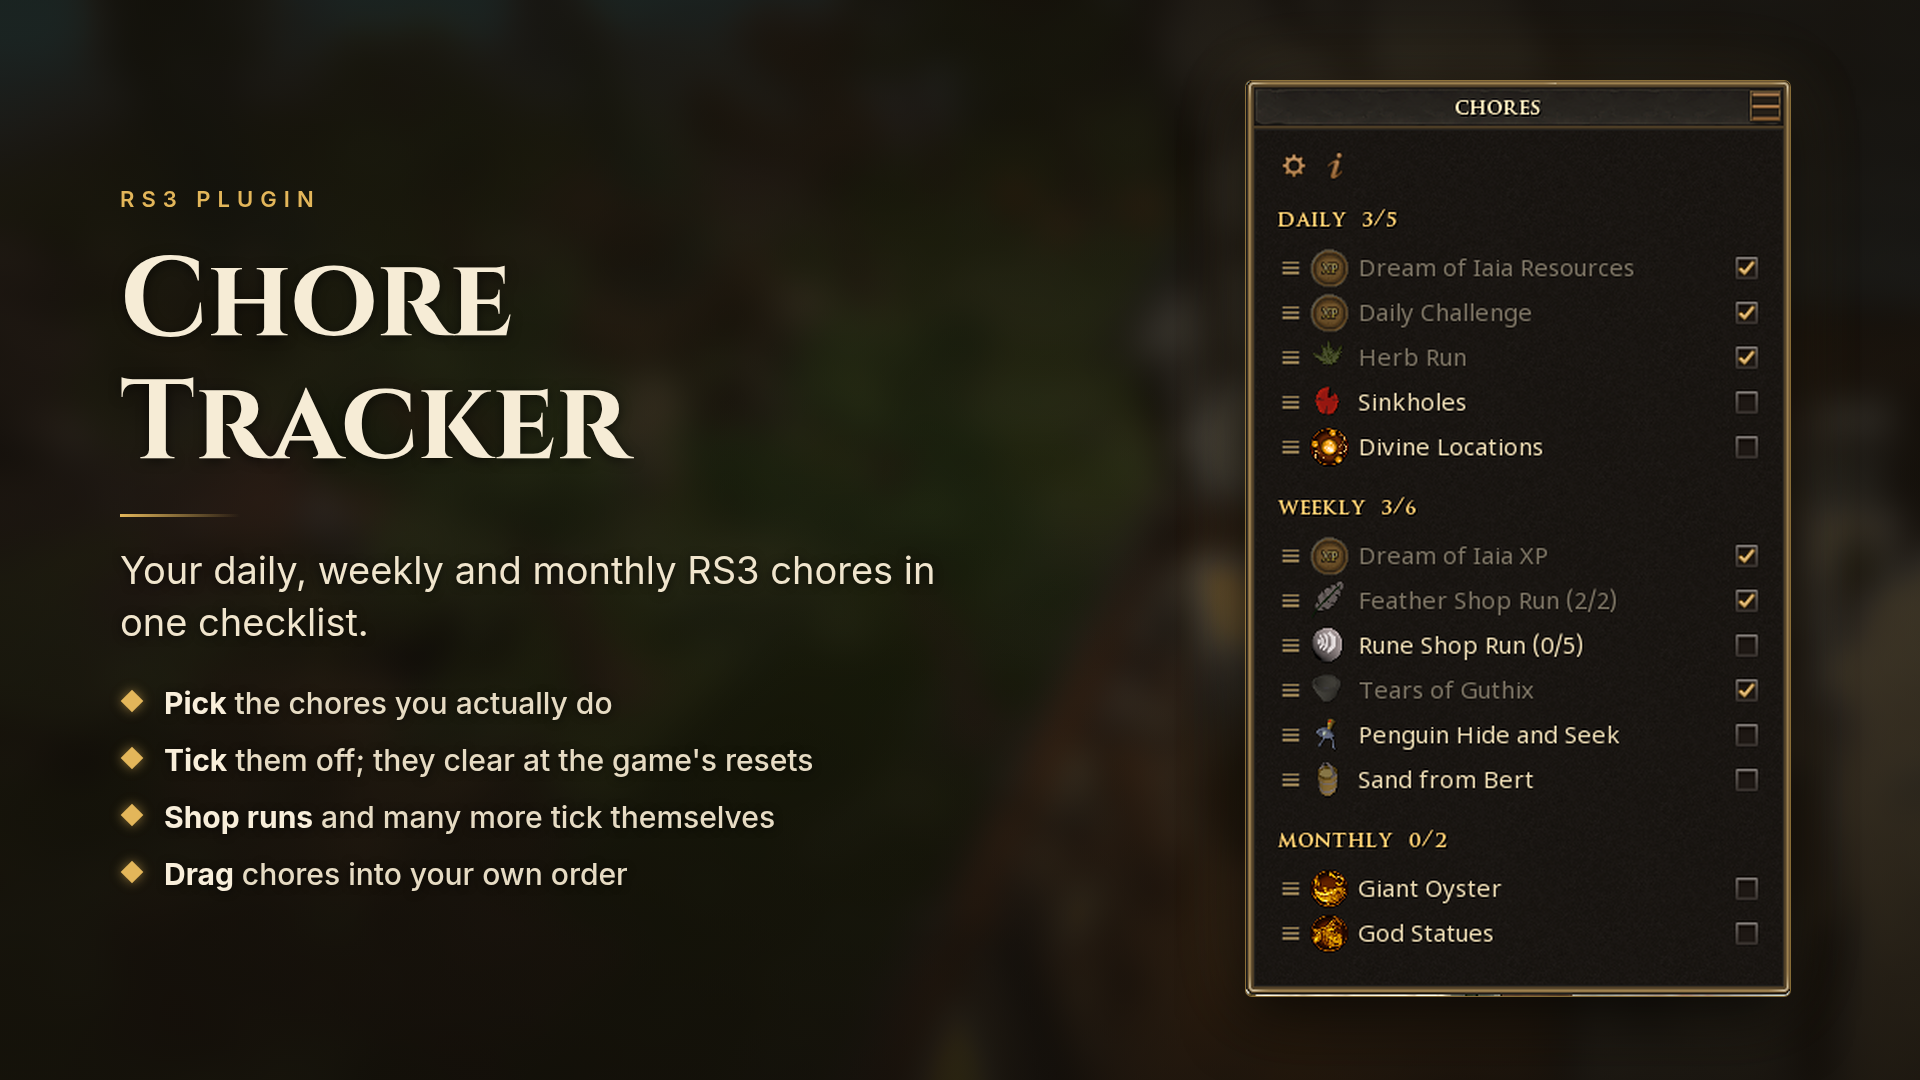
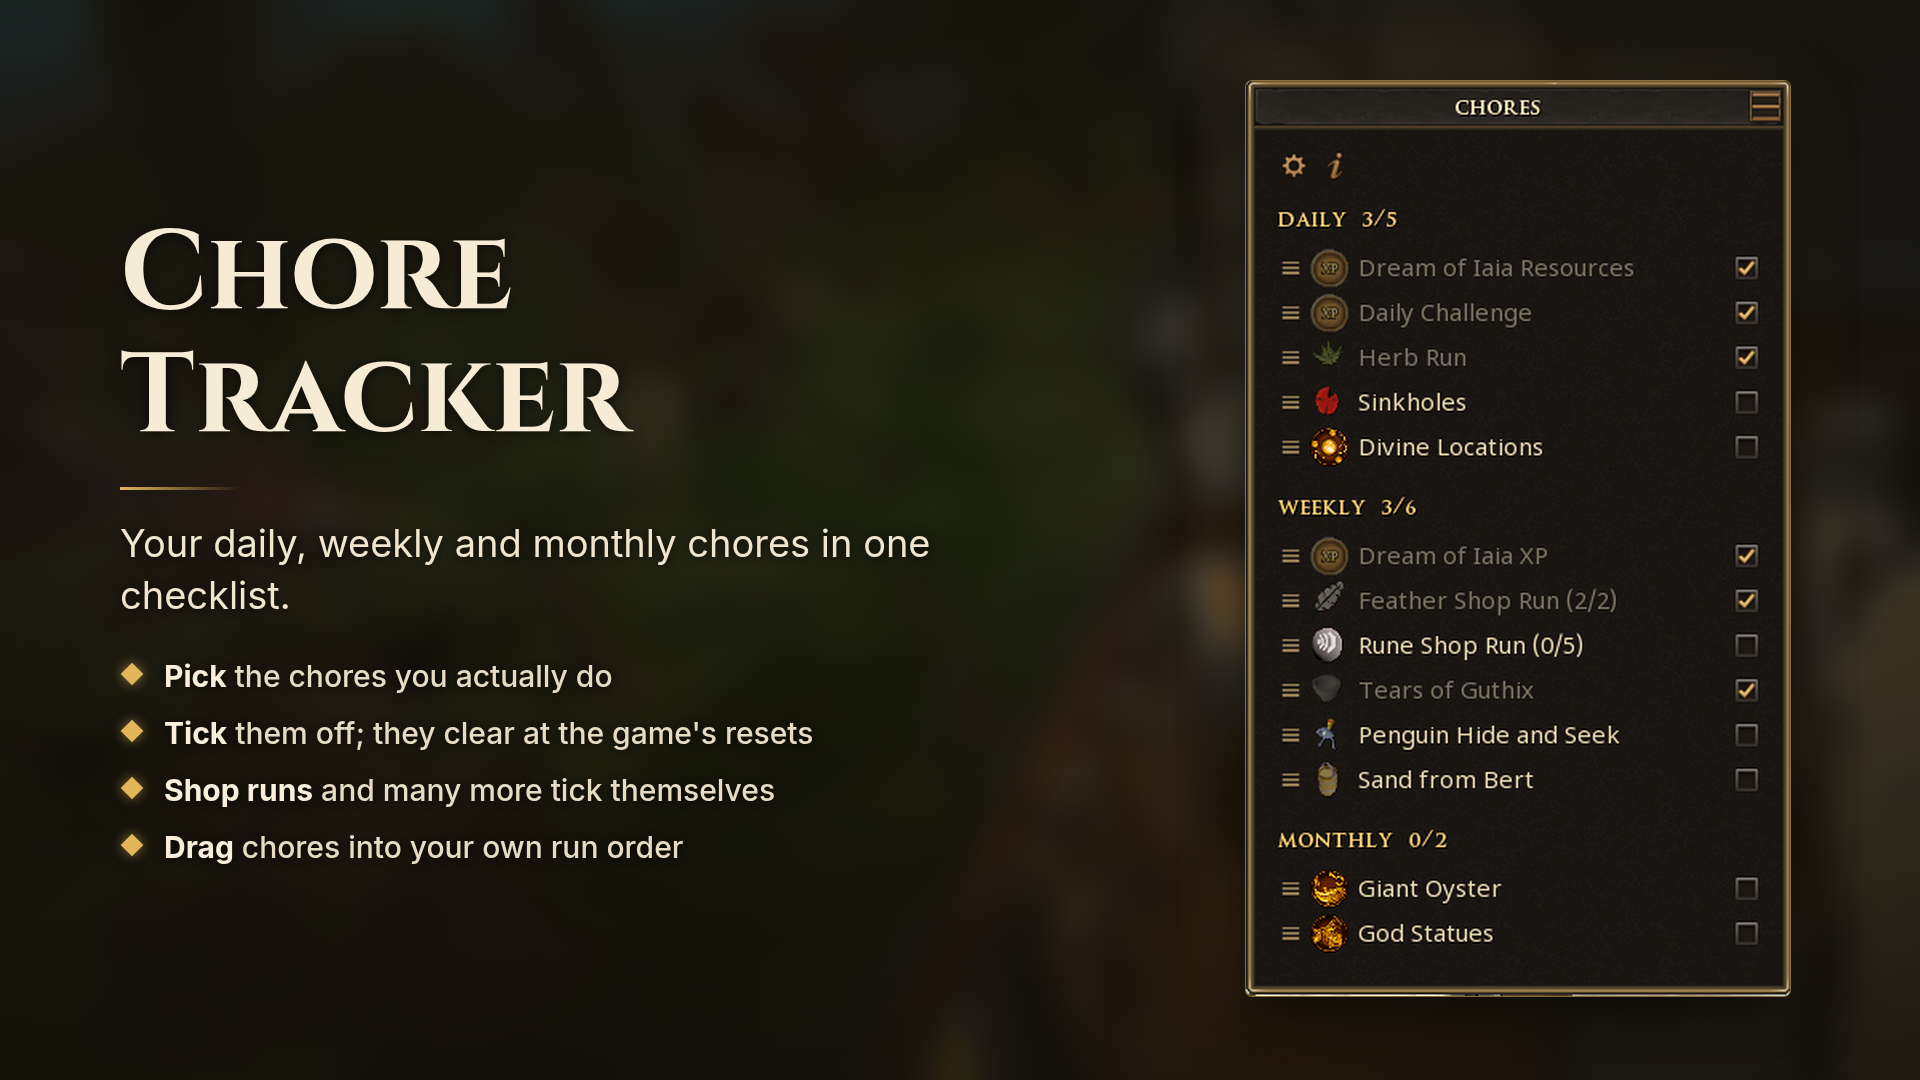
Reword Chore Tracker's gallery captions, drop a callout, and allow no eyebrow
The user's specs.json edits: no "RS3" in the tagline or eyebrow, "run order", "Progress
per type", "How many shops you buy from", the strip described as showing the current
chore in run order, and no Celebrations callout. gallery.py now leaves the hero's
eyebrow out when the spec has none.

Claude-Session: https://claude.ai/code/session_018qw7u7hCsqenoQ2pme9BmX

Changed region(s): [[0.0625, 0.4889, 0.5, 0.825], [0.0625, 0.1833, 0.3438, 0.4278]]

diff --git a/scripts/gallery.py b/scripts/gallery.py
@@ -212,8 +212,9 @@ def hero(media: pathlib.Path, spec: dict) -> str:
     """The listing image: plugin name, tagline and features left, screenshots right."""
     shots = "".join(place(media, img)[0] for img in spec["images"])
     feats = "".join(f"<li>{f}</li>" for f in spec["features"])
+    eyebrow = f'<div class="eyebrow">{spec["eyebrow"]}</div>' if "eyebrow" in spec else ""
     text = (
-        f'<div class="hero-text"><div class="eyebrow">{spec["eyebrow"]}</div>'
+        f'<div class="hero-text">{eyebrow}'
         f'<h1>{spec["plugin"]}</h1><div class="rule"></div>'
         f'<div class="tagline">{spec["tagline"]}</div><ul class="features">{feats}</ul></div>'
     )

diff --git a/media/chore-tracker/README.md b/media/chore-tracker/README.md
@@ -17,8 +17,8 @@ Upload them in that order (Media, `docs/submission.md`).
 
 Edit `specs.json`, then `python3 scripts/gallery.py compose media/chore-tracker` (or name pages
 after the folder to render only those). No client needed. Each page has a `layout`: `hero`
-(`eyebrow`, `tagline`, `features`) or `annotated` (`title`, `desc`, optional `note`). Its
-`images` place a raw crop at `scale` and `x`,`y` on the page. Each callout draws a box round
+(`tagline`, `features`, optional `eyebrow`) or `annotated` (`title`, `desc`, optional
+`note`). Its `images` place a raw crop at `scale` and `x`,`y` on the page. Each callout draws a box round
 `box` (`[x, y, w, h]` in raw-crop pixels) and puts its `text` on one `side` at page `x`, the
 label's edge nearest the screenshot. Labels never wrap on their own, so break long ones with
 `<br>`. Moving a box means reading its coordinates off the raw crop.
